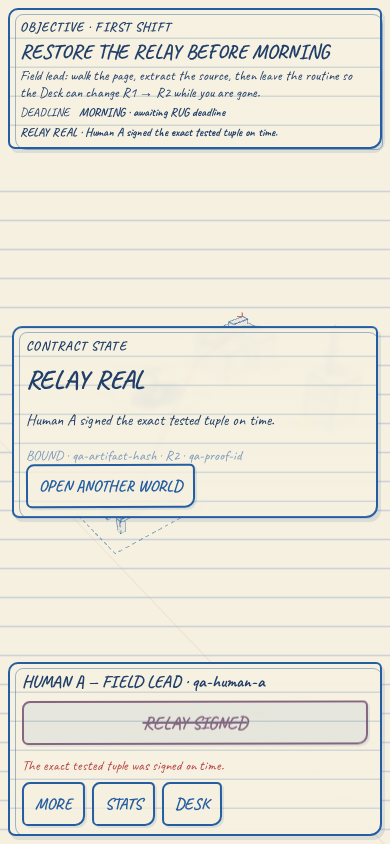
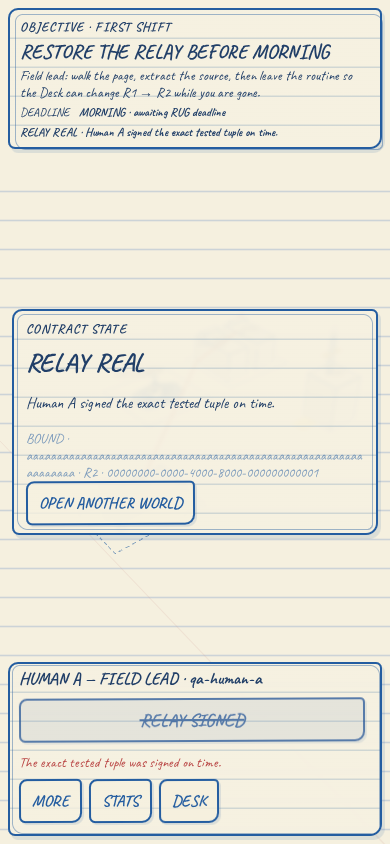
Fix graphics restoration and close beta review findings

Changed region(s): [[0.0308, 0.3697, 0.9846, 0.6469], [0.0308, 0.7701, 0.9538, 0.9858]]

diff --git a/arcade/paper-firm/paper-firm.js b/arcade/paper-firm/paper-firm.js
@@ -43,10 +43,14 @@ let paperRenderer = null;
 
 
 function resize() {
+  if (paperRenderer) {
+    paperRenderer.resize();
+    draw();
+    return;
+  }
   const rect = canvas.getBoundingClientRect();
   canvas.width = Math.round(rect.width * dpr);
   canvas.height = Math.round(rect.height * dpr);
-  paperRenderer?.resize();
   draw();
 }
 window.addEventListener('resize', resize);
@@ -55,12 +59,15 @@ window.addEventListener('resize', resize);
 import('./paper-renderer.mjs').then((module) => {
   if (typeof module.createPaperRenderer !== 'function') return;
   paperRenderer = module.createPaperRenderer(canvas);
+  $('connect-btn').disabled = false;
   window.__paperFirmRenderer = paperRenderer.diagnostics;
   paperRenderer.resize();
   draw();
 }).catch((error) => {
   console.error('Paper Firm 3D renderer failed', error);
-  $('connection-status').textContent = '3D renderer unavailable. WebGL2 is required.';
+  $('renderer-error').textContent = '3D renderer unavailable. WebGL2 is required. Reload after graphics support is restored.';
+  $('renderer-error').classList.remove('hidden');
+  $('connect-btn').disabled = true;
 });
 
 function addLog(text, kind = '') {
@@ -284,6 +291,7 @@ async function acceptReceipt(receipt) {
 }
 
 async function connect() {
+  if (!paperRenderer) return;
   const initialConfig = config();
   const { match } = initialConfig;
   if (!match) { $('connection-status').textContent = 'enter the RUG world code'; return; }
@@ -475,7 +483,7 @@ function updateUi() {
     setBlocked($('sign-relay'), vm.next.id !== 'sign-relay', vm.next.id === 'sign-relay' ? '' : vm.next.why);
   }
   // Desk ledger + WHILE_YOU_WERE_GONE stay behind STATS/DESK toggles (never auto-face).
-  if (deskOpen) $('overnight').classList.remove('hidden');
+  if (deskOpen && !vm.returnScreen.visible) $('overnight').classList.remove('hidden');
   else $('overnight').classList.add('hidden');
   if (statsOpen) $('desk').classList.remove('hidden');
   else $('desk').classList.add('hidden');

diff --git a/arcade/paper-firm/paper-firm.css b/arcade/paper-firm/paper-firm.css
@@ -143,6 +143,9 @@ select { min-height: 44px; padding: 5px 8px; border: 2px solid var(--ink); borde
 .paper-proof-row { display: flex; justify-content: space-between; gap: 12px; }
 .paper-return-card, .endgame-note { top: 50%; left: 50%; transform: translate(-50%, -50%); width: min(440px, calc(100vw - 24px)); max-height: 70vh; overflow: auto; z-index: 5; }
 .paper-return-card h2, .endgame-note h2 { font-size: 26px; margin: 8px 0; }
+.endgame-note { overflow-wrap: anywhere; }
+.endgame-note::before { inset: 3px; }
+.renderer-error { top: 42%; left: 50%; transform: translateX(-50%); width: min(440px, calc(100vw - 24px)); z-index: 30; border-color: var(--red); color: var(--red); }
 .paper-return-card { left: 18px; top: 220px; transform: none; width: 300px; z-index: 6; }
 #another-world { display: inline-flex; align-items: center; text-decoration: none; }
 .log-note { top: 220px; }

diff --git a/arcade/paper-firm/index.html b/arcade/paper-firm/index.html
@@ -10,6 +10,7 @@
 <body>
   <main id="paper-app">
     <canvas id="paper-world" aria-label="Paper Firm field"></canvas>
+    <div id="renderer-error" class="paper-note renderer-error hidden" role="alert"></div>
 
     <section id="top-note" class="paper-note">
       <strong>FIRST SHIFT</strong>
@@ -28,7 +29,7 @@
       <label>RUG <input id="rug-url" value="http://localhost:8080" spellcheck="false" /></label>
       <label>WORLD <input id="match-id" placeholder="WORLD CODE" maxlength="32" spellcheck="false" /></label>
       <label>MESH <input id="mesh-url" placeholder="auto" spellcheck="false" /></label>
-      <button id="connect-btn" class="pen-button action">ENTER THE PAGE</button>
+      <button id="connect-btn" class="pen-button action" disabled>ENTER THE PAGE</button>
       <div id="connection-status">not connected</div>
     </section>
 

diff --git a/proof/PAPER_FIRM_BETA_HANDOFF.md b/proof/PAPER_FIRM_BETA_HANDOFF.md
@@ -22,7 +22,7 @@ organization proof and not a measured “95% complete” claim.
 
 ## Reproduce local checks
 
-Latest local combined run: **1,334 tests passed, 0 failed** (includes six
+Latest local combined run: **1,338 tests passed, 0 failed** (includes eight
 browser checks and the release-boundary suite). Git diff whitespace check passes.
 
 ```sh
@@ -36,9 +36,22 @@ checks both desktop and 390×844 layouts, imports/MIME/errors, camera changes,
 and actual mesh rendering. It also checks GPU resource counts remain stable
 across forty repeated scene updates.
 
-The six browser tests include **isolated synthetic fixtures** for human roles,
+The eight browser tests include **isolated synthetic fixtures** for human roles,
 FIND, R2/replacement delivery, RETURN/SIGN and outcome screens. They do not
 authenticate real humans, call models, kill workers, or mint live proof.
+
+Standalone-preview follow-up: forced WebGL context loss/restoration reproduced
+an idle blank world. The renderer now redraws retained state on restoration,
+and the primary canvas dimensions are owned only by Three.js after startup.
+The regression fails without this repair and passes with it. QA explicitly uses
+SwiftShader; device GPU performance still requires the Pixel acceptance run.
+
+Review repairs: canonical completion is terminal; current-packet delivery does
+not borrow from history; departed actors and their labels are disposed; full
+hash/UUID tuples wrap on mobile; the detailed return receipt stays exclusive;
+renderer failure remains visible and blocks admission; online rejection marks
+come from current authoritative rejected findings, not only the absence summary.
+Each is covered by the focused model/browser checks.
 
 Screenshots are saved in `proof/screenshots/`. The art-evidence and endgame
 images are explicitly fixtures, not receipts of a completed real match.
